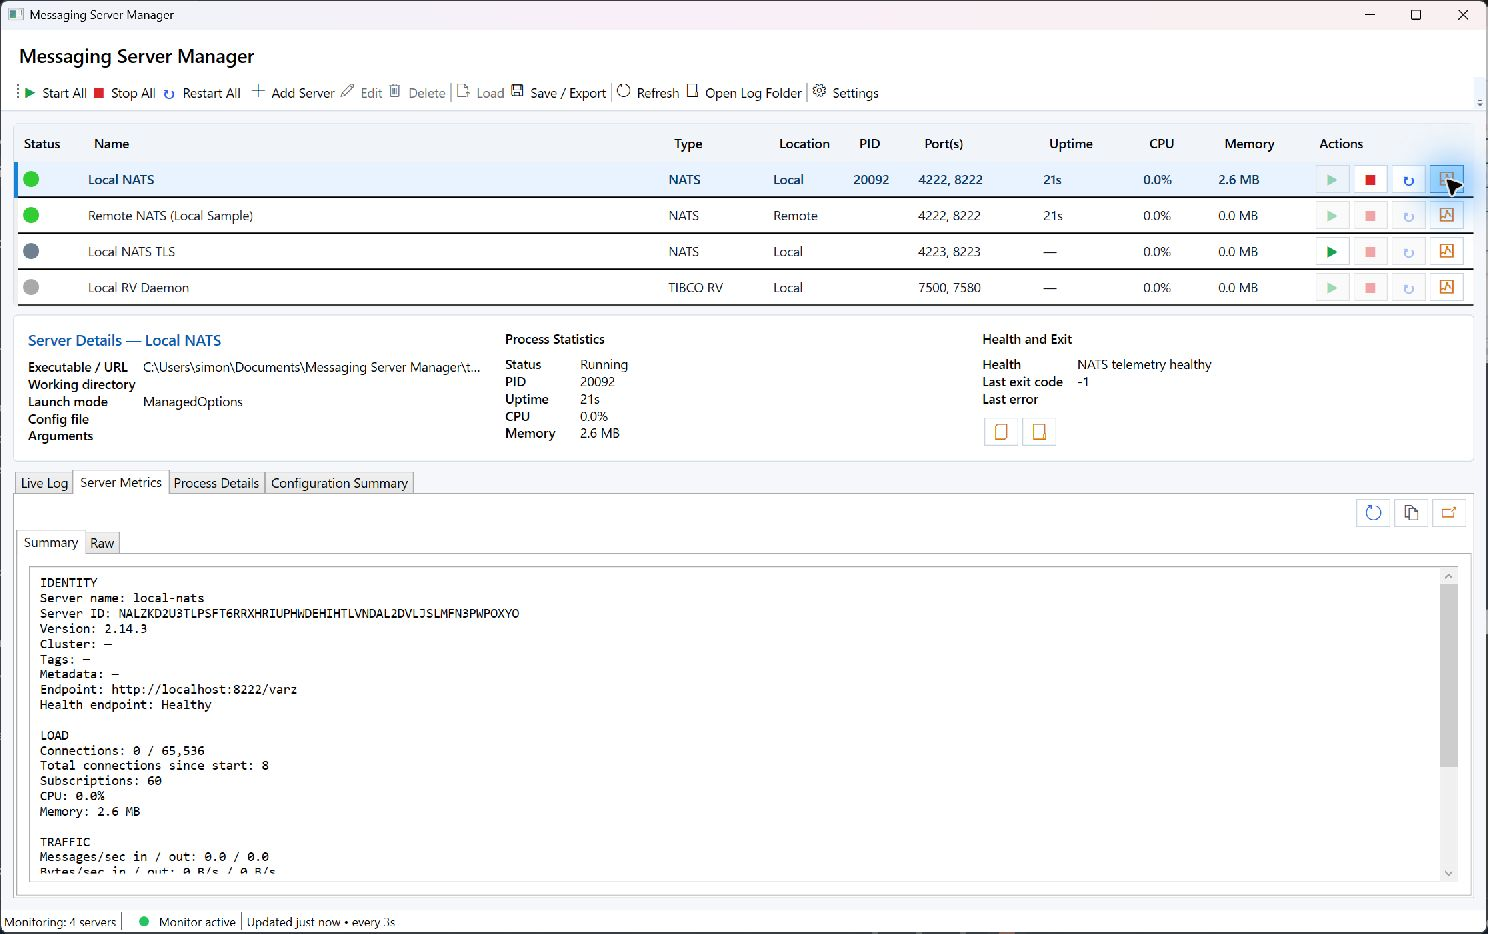
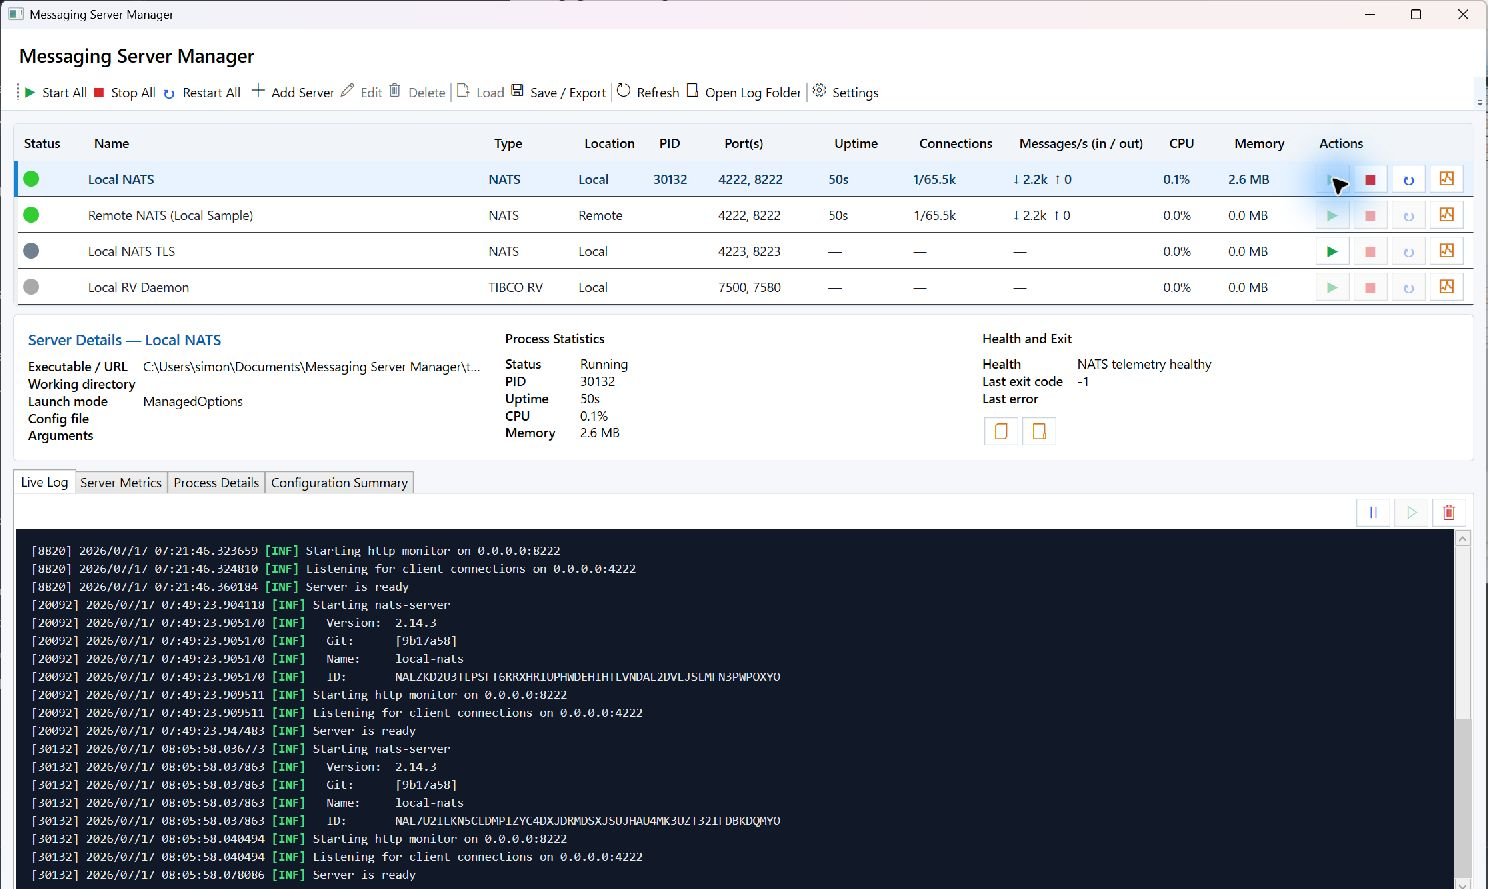
Add list telemetry activity columns

diff --git a/src/MessagingServerManager.App/MainWindow.xaml b/src/MessagingServerManager.App/MainWindow.xaml
@@ -22,7 +22,7 @@
     <DataGrid ItemsSource="{Binding Servers}" SelectedItem="{Binding Selected}" AutoGenerateColumns="False" IsReadOnly="True" CanUserSortColumns="True" HeadersVisibility="Column" GridLinesVisibility="Horizontal" BorderThickness="0" RowHeight="36" VerticalScrollBarVisibility="Auto" HorizontalScrollBarVisibility="Auto">
      <DataGrid.Columns>
       <DataGridTemplateColumn Header="Status" Width="70" SortMemberPath="Status"><DataGridTemplateColumn.CellTemplate><DataTemplate><StackPanel Orientation="Horizontal" VerticalAlignment="Center" ToolTip="{Binding StatusTooltip}"><Ellipse Width="16" Height="16" Fill="{Binding StatusBrush}" Margin="5,0" VerticalAlignment="Center"/></StackPanel></DataTemplate></DataGridTemplateColumn.CellTemplate></DataGridTemplateColumn>
-      <DataGridTextColumn Header="Name" Binding="{Binding Name}" Width="1.5*" ElementStyle="{StaticResource CenteredCellText}"/><DataGridTextColumn Header="Type" Binding="{Binding TypeText}" Width="105" ElementStyle="{StaticResource CenteredCellText}"/><DataGridTextColumn Header="Location" Binding="{Binding LocationText}" Width="80" ElementStyle="{StaticResource CenteredCellText}"/><DataGridTextColumn Header="PID" Binding="{Binding Pid}" Width="65" ElementStyle="{StaticResource CenteredCellText}"/><DataGridTemplateColumn Header="Port(s)" SortMemberPath="PrimaryPort" Width="125"><DataGridTemplateColumn.CellTemplate><DataTemplate><TextBlock Text="{Binding Ports}" ToolTip="{Binding PortsTooltip}" Style="{StaticResource CenteredCellText}"/></DataTemplate></DataGridTemplateColumn.CellTemplate></DataGridTemplateColumn><DataGridTextColumn Header="Uptime" Binding="{Binding UptimeText}" SortMemberPath="Uptime" Width="100" ElementStyle="{StaticResource CenteredCellText}"/><DataGridTextColumn Header="CPU" Binding="{Binding CpuText}" SortMemberPath="Cpu" Width="75" ElementStyle="{StaticResource CenteredCellText}"/><DataGridTextColumn Header="Memory" Binding="{Binding MemoryText}" SortMemberPath="Memory" Width="95" ElementStyle="{StaticResource CenteredCellText}"/>
+      <DataGridTextColumn Header="Name" Binding="{Binding Name}" Width="1*" MinWidth="180" ElementStyle="{StaticResource CenteredCellText}"/><DataGridTextColumn Header="Type" Binding="{Binding TypeText}" Width="90" ElementStyle="{StaticResource CenteredCellText}"/><DataGridTextColumn Header="Location" Binding="{Binding LocationText}" Width="75" ElementStyle="{StaticResource CenteredCellText}"/><DataGridTextColumn Header="PID" Binding="{Binding Pid}" Width="65" ElementStyle="{StaticResource CenteredCellText}"/><DataGridTemplateColumn Header="Port(s)" SortMemberPath="PrimaryPort" Width="110"><DataGridTemplateColumn.CellTemplate><DataTemplate><TextBlock Text="{Binding Ports}" ToolTip="{Binding PortsTooltip}" Style="{StaticResource CenteredCellText}"/></DataTemplate></DataGridTemplateColumn.CellTemplate></DataGridTemplateColumn><DataGridTextColumn Header="Uptime" Binding="{Binding UptimeText}" SortMemberPath="Uptime" Width="85" ElementStyle="{StaticResource CenteredCellText}"/><DataGridTemplateColumn Header="Connections" SortMemberPath="ConnectionCount" Width="100"><DataGridTemplateColumn.CellTemplate><DataTemplate><TextBlock Text="{Binding ConnectionsText}" ToolTip="{Binding ActivityTooltip}" Style="{StaticResource CenteredCellText}"/></DataTemplate></DataGridTemplateColumn.CellTemplate></DataGridTemplateColumn><DataGridTemplateColumn Header="Messages/s (in / out)" SortMemberPath="MessageRateTotal" Width="150"><DataGridTemplateColumn.CellTemplate><DataTemplate><TextBlock Text="{Binding MessageRateText}" ToolTip="{Binding ActivityTooltip}" Style="{StaticResource CenteredCellText}"/></DataTemplate></DataGridTemplateColumn.CellTemplate></DataGridTemplateColumn><DataGridTextColumn Header="CPU" Binding="{Binding CpuText}" SortMemberPath="Cpu" Width="65" ElementStyle="{StaticResource CenteredCellText}"/><DataGridTextColumn Header="Memory" Binding="{Binding MemoryText}" SortMemberPath="Memory" Width="85" ElementStyle="{StaticResource CenteredCellText}"/>
       <DataGridTemplateColumn Header="Actions" Width="160" CanUserSort="False"><DataGridTemplateColumn.CellTemplate><DataTemplate><StackPanel Orientation="Horizontal" VerticalAlignment="Center"><Button Style="{StaticResource CompactActionButton}" ToolTip="Start server" AutomationProperties.Name="Start server" Command="{Binding DataContext.StartServerCommand,RelativeSource={RelativeSource AncestorType=Window}}" CommandParameter="{Binding}"><TextBlock Text="▶" Foreground="#16A34A" FontWeight="Bold" FontSize="14" VerticalAlignment="Center"/></Button><Button Style="{StaticResource CompactActionButton}" ToolTip="Stop server" AutomationProperties.Name="Stop server" Command="{Binding DataContext.StopServerCommand,RelativeSource={RelativeSource AncestorType=Window}}" CommandParameter="{Binding}"><TextBlock Text="■" Foreground="#DC2626" FontWeight="Bold" FontSize="14" VerticalAlignment="Center"/></Button><Button Style="{StaticResource CompactActionButton}" ToolTip="Restart server" AutomationProperties.Name="Restart server" Command="{Binding DataContext.RestartServerCommand,RelativeSource={RelativeSource AncestorType=Window}}" CommandParameter="{Binding}"><TextBlock Text="↻" Foreground="#2563EB" FontWeight="Bold" FontSize="16" VerticalAlignment="Center"/></Button><Button Style="{StaticResource CompactActionButton}" ToolTip="{Binding RowActionTooltip}" AutomationProperties.Name="{Binding RowActionTooltip}" Command="{Binding DataContext.InspectServerCommand,RelativeSource={RelativeSource AncestorType=Window}}" CommandParameter="{Binding}"><TextBlock FontFamily="Segoe MDL2 Assets" Text="{Binding RowActionGlyph}" Foreground="#D97706" FontWeight="Bold" FontSize="15" VerticalAlignment="Center"/></Button></StackPanel></DataTemplate></DataGridTemplateColumn.CellTemplate></DataGridTemplateColumn>
      </DataGrid.Columns>
     </DataGrid>

diff --git a/src/MessagingServerManager.App/MainViewModel.cs b/src/MessagingServerManager.App/MainViewModel.cs
@@ -2,10 +2,10 @@ using System.Collections.ObjectModel;using System.Diagnostics;using System.IO;us
 namespace MessagingServerManager.App;
 public sealed class ServerRowViewModel:ObservableObject
 {
- public ServerDefinition Definition{get;} ServerStatus status;int? pid;TimeSpan uptime;double cpu;long memory;string health="Not checked";string? error;int? exit;DateTime? started;DateTime? lastChecked;DateTime? lastExitTime;int restartCount;string serverId="";string serverName="";string serverVersion="";int connections;int subscriptions;long inMessages;long outMessages;long inBytes;long outBytes;int slowConsumers;int maximumConnections;int totalConnections;int routes;int remotes;int leafNodes;string clusterName="";string serverTags="";string serverMetadata="";string rawTelemetry="";bool healthEndpointHealthy;DateTimeOffset? previousSample;long previousInMessages;long previousOutMessages;long previousInBytes;long previousOutBytes;double inMessageRate;double outMessageRate;double inByteRate;double outByteRate;
+ public ServerDefinition Definition{get;} ServerStatus status;int? pid;TimeSpan uptime;double cpu;long memory;string health="Not checked";string? error;int? exit;DateTime? started;DateTime? lastChecked;DateTime? lastExitTime;int restartCount;string serverId="";string serverName="";string serverVersion="";int connections;int subscriptions;long inMessages;long outMessages;long inBytes;long outBytes;int slowConsumers;int maximumConnections;int totalConnections;int routes;int remotes;int leafNodes;string clusterName="";string serverTags="";string serverMetadata="";string rawTelemetry="";bool healthEndpointHealthy;bool hasRateSample;DateTimeOffset? previousSample;long previousInMessages;long previousOutMessages;long previousInBytes;long previousOutBytes;double inMessageRate;double outMessageRate;double inByteRate;double outByteRate;
  public ServerRowViewModel(ServerDefinition d){Definition=d;status=d.Enabled?ServerStatus.Stopped:ServerStatus.Disabled;}public string Name=>Definition.Name;public string TypeText=>Definition.ServerType==ServerType.Nats?"NATS":"TIBCO RV";public string LocationText=>Definition.Location.ToString();public string Endpoint=>Definition.ServerType==ServerType.Nats?$"{(Definition.Nats.UseTls?"https":"http")}://{Definition.HealthCheckHost}:{Definition.Nats.MonitoringPort}/varz":Definition.TibRv.HttpAdministrationPort is int rvPort?$"http://{Definition.HealthCheckHost}:{rvPort}/metrics":"Local process";public string ExecutableDisplay=>Definition.Location==ServerLocation.Remote?Endpoint:Definition.Executable;public int PrimaryPort=>ServerValidator.GetPorts(Definition).FirstOrDefault(x=>x.HasValue)??0;public string Ports=>string.Join(", ",ServerValidator.GetPorts(Definition).Where(x=>x.HasValue));public string PortsTooltip=>Definition.ServerType==ServerType.Nats?$"Client: {Definition.Nats.ClientPort}; Monitoring: {(Definition.Nats.UseTls?"HTTPS":"HTTP")} {Definition.Nats.MonitoringPort}":$"Service: {Definition.TibRv.Service}; HTTP administration: {Definition.TibRv.HttpAdministrationPort}";public string LogFile=>Definition.Location==ServerLocation.Remote?"Remote telemetry":Definition.LogFilePath??"—";public bool AutoStart=>Definition.StartWithApplication;public bool HasTelemetry=>Definition.ServerType==ServerType.Nats&&Definition.Nats.MonitoringPort is not null||Definition.ServerType==ServerType.TibcoRendezvous&&Definition.TibRv.HttpAdministrationPort is not null;public string RowActionTooltip=>HasTelemetry?"Inspect server telemetry":"Open server log";public string RowActionGlyph=>HasTelemetry?"\uE9D9":"▤";
  public ServerStatus Status{get=>status;set{if(Set(ref status,value)){Raise(nameof(StatusText));Raise(nameof(StatusBrush));Raise(nameof(StatusTooltip));Raise(nameof(CanStart));Raise(nameof(CanStop));}}}public string StatusText=>Status.ToString();public string StatusTooltip=>$"{StatusText} — {Health}";public Brush StatusBrush=>Status switch{ServerStatus.Running=>Brushes.LimeGreen,ServerStatus.Starting or ServerStatus.Stopping or ServerStatus.Restarting=>Brushes.Goldenrod,ServerStatus.Failed or ServerStatus.Invalid=>Brushes.OrangeRed,ServerStatus.Stopped=>Brushes.SlateGray,_=>Brushes.DarkGray};
- public int? Pid{get=>pid;set{if(Set(ref pid,value)){Raise(nameof(CanStart));Raise(nameof(CanStop));}}}public TimeSpan Uptime{get=>uptime;set{if(Set(ref uptime,value))Raise(nameof(UptimeText));}}public string UptimeText=>Definition.Location==ServerLocation.Remote||Pid is not null?FormatDuration(Uptime):"—";public double Cpu{get=>cpu;set{if(Set(ref cpu,value))Raise(nameof(CpuText));}}public string CpuText=>$"{Cpu:F1}%";public long Memory{get=>memory;set{if(Set(ref memory,value))Raise(nameof(MemoryText));}}public string MemoryText=>$"{Memory/1048576d:F1} MB";public string Health{get=>health;set{if(Set(ref health,value))Raise(nameof(StatusTooltip));}}public string? LastError{get=>error;set=>Set(ref error,value);}public int? LastExitCode{get=>exit;set=>Set(ref exit,value);}public DateTime? Started{get=>started;set=>Set(ref started,value);}public DateTime? LastChecked{get=>lastChecked;set=>Set(ref lastChecked,value);}public DateTime? LastExitTime{get=>lastExitTime;set=>Set(ref lastExitTime,value);}public int RestartCount{get=>restartCount;set=>Set(ref restartCount,value);}public bool CanStart=>Definition.Location==ServerLocation.Local&&Definition.Enabled&&Pid is null&&Status is ServerStatus.Stopped or ServerStatus.Failed;public bool CanStop=>Definition.Location==ServerLocation.Local&&Pid is not null&&Status is ServerStatus.Running or ServerStatus.Starting or ServerStatus.Failed;public bool CanOpenLog=>Definition.Location==ServerLocation.Local&&!string.IsNullOrWhiteSpace(Definition.LogFilePath);public bool HasRawTelemetry=>!string.IsNullOrWhiteSpace(rawTelemetry);public string RawTelemetry=>rawTelemetry;public string RemoteMetricsSummary=>Definition.ServerType==ServerType.TibcoRendezvous?TibRvMetricsSummary:$"IDENTITY\nServer name: {Value(serverName)}\nServer ID: {Value(serverId)}\nVersion: {Value(serverVersion)}\nCluster: {Value(clusterName)}\nTags: {Value(serverTags)}\nMetadata: {Value(serverMetadata)}\nEndpoint: {Endpoint}\nHealth endpoint: {(healthEndpointHealthy?"Healthy":"Unavailable")}\n\nLOAD\nConnections: {connections:N0} / {(maximumConnections>0?maximumConnections.ToString("N0"):"unlimited")}\nTotal connections since start: {totalConnections:N0}\nSubscriptions: {subscriptions:N0}\nCPU: {CpuText}\nMemory: {MemoryText}\n\nTRAFFIC\nMessages/sec in / out: {inMessageRate:N1} / {outMessageRate:N1}\nBytes/sec in / out: {FormatRate(inByteRate)} / {FormatRate(outByteRate)}\nLifetime messages in / out: {inMessages:N0} / {outMessages:N0}\nLifetime bytes in / out: {FormatBytes(inBytes)} / {FormatBytes(outBytes)}\n\nTOPOLOGY\nRoutes: {routes:N0}\nRemotes: {remotes:N0}\nLeaf nodes: {leafNodes:N0}\n\nWARNINGS\nSlow consumers: {slowConsumers:N0}";string TibRvMetricsSummary=>$"IDENTITY\nComponent: {Value(serverName)}\nVersion: {Value(serverVersion)}\nHost: {Value(serverId)}\nService: {Value(clusterName)}\nNetwork: {Value(serverTags)}\nEndpoint: {Endpoint}\n\nLOAD\nClient connections: {connections:N0}\nSubscriptions: {subscriptions:N0}\nUptime: {UptimeText}\n\nTRAFFIC\nMessages/sec in / out: {inMessageRate:N1} / {outMessageRate:N1}\nBytes/sec in / out: {FormatRate(inByteRate)} / {FormatRate(outByteRate)}\nLifetime messages in / out: {inMessages:N0} / {outMessages:N0}\nLifetime bytes in / out: {FormatBytes(inBytes)} / {FormatBytes(outBytes)}\n\nDELIVERY WARNINGS\nInbound / outbound data loss: {routes:N0} / {remotes:N0}\nPackets retransmitted: {leafNodes:N0}\nPackets missed: {slowConsumers:N0}";public void ApplyTelemetry(RemoteServerTelemetry value){ApplyRates(value.SampleTime,value.InMessages,value.OutMessages,value.InBytes,value.OutBytes);serverId=value.ServerId;serverName=value.ServerName;serverVersion=value.Version;connections=value.Connections;subscriptions=value.Subscriptions;inMessages=value.InMessages;outMessages=value.OutMessages;inBytes=value.InBytes;outBytes=value.OutBytes;slowConsumers=value.SlowConsumers;maximumConnections=value.MaximumConnections;totalConnections=value.TotalConnections;routes=value.Routes;remotes=value.Remotes;leafNodes=value.LeafNodes;clusterName=value.ClusterName;serverTags=value.ServerTags;serverMetadata=value.ServerMetadata;healthEndpointHealthy=value.HealthEndpointHealthy;rawTelemetry=value.RawJson;FinishTelemetry(value.Uptime);}public void ApplyTelemetry(TibRvTelemetry value){ApplyRates(value.SampleTime,value.InMessages,value.OutMessages,value.InBytes,value.OutBytes);serverName=value.Component;serverVersion=value.Version;serverId=value.Host;clusterName=value.Service;serverTags=value.Network;connections=value.ClientConnections;subscriptions=value.Subscriptions;inMessages=value.InMessages;outMessages=value.OutMessages;inBytes=value.InBytes;outBytes=value.OutBytes;routes=(int)Math.Min(int.MaxValue,value.InDataLoss);remotes=(int)Math.Min(int.MaxValue,value.OutDataLoss);leafNodes=(int)Math.Min(int.MaxValue,value.RetransmittedPackets);slowConsumers=(int)Math.Min(int.MaxValue,value.MissedPackets);rawTelemetry=value.RawMetrics;FinishTelemetry(value.Uptime);}void ApplyRates(DateTimeOffset sample,long newInMessages,long newOutMessages,long newInBytes,long newOutBytes){if(previousSample.HasValue){var seconds=(sample-previousSample.Value).TotalSeconds;if(seconds>0){inMessageRate=Math.Max(0,(newInMessages-previousInMessages)/seconds);outMessageRate=Math.Max(0,(newOutMessages-previousOutMessages)/seconds);inByteRate=Math.Max(0,(newInBytes-previousInBytes)/seconds);outByteRate=Math.Max(0,(newOutBytes-previousOutBytes)/seconds);}}previousSample=sample;previousInMessages=newInMessages;previousOutMessages=newOutMessages;previousInBytes=newInBytes;previousOutBytes=newOutBytes;}void FinishTelemetry(TimeSpan value){Uptime=value;Started=DateTime.Now-value;Raise(nameof(RemoteMetricsSummary));Raise(nameof(RawTelemetry));Raise(nameof(HasRawTelemetry));}static string FormatDuration(TimeSpan value)=>value.TotalDays>=1?$"{(int)value.TotalDays}d {value.Hours}h":value.TotalHours>=1?$"{(int)value.TotalHours}h {value.Minutes}m":value.TotalMinutes>=1?$"{(int)value.TotalMinutes}m {value.Seconds}s":$"{Math.Max(0,(int)value.TotalSeconds)}s";static string FormatBytes(long value)=>value>=1073741824?$"{value/1073741824d:F1} GB":value>=1048576?$"{value/1048576d:F1} MB":value>=1024?$"{value/1024d:F1} KB":$"{value} B";static string FormatRate(double value)=>FormatBytes((long)value)+"/s";static string Value(string value)=>string.IsNullOrWhiteSpace(value)?"—":value;public void RefreshDefinition(){Raise(nameof(Name));Raise(nameof(TypeText));Raise(nameof(LocationText));Raise(nameof(Endpoint));Raise(nameof(ExecutableDisplay));Raise(nameof(PrimaryPort));Raise(nameof(Ports));Raise(nameof(PortsTooltip));Raise(nameof(LogFile));Raise(nameof(AutoStart));Raise(nameof(CanOpenLog));Raise(nameof(HasTelemetry));Raise(nameof(RowActionTooltip));Raise(nameof(RowActionGlyph));Raise(nameof(RemoteMetricsSummary));}
+ public int? Pid{get=>pid;set{if(Set(ref pid,value)){Raise(nameof(CanStart));Raise(nameof(CanStop));}}}public TimeSpan Uptime{get=>uptime;set{if(Set(ref uptime,value))Raise(nameof(UptimeText));}}public string UptimeText=>Definition.Location==ServerLocation.Remote||Pid is not null?FormatDuration(Uptime):"—";public double Cpu{get=>cpu;set{if(Set(ref cpu,value))Raise(nameof(CpuText));}}public string CpuText=>$"{Cpu:F1}%";public long Memory{get=>memory;set{if(Set(ref memory,value))Raise(nameof(MemoryText));}}public string MemoryText=>$"{Memory/1048576d:F1} MB";public string Health{get=>health;set{if(Set(ref health,value))Raise(nameof(StatusTooltip));}}public string? LastError{get=>error;set=>Set(ref error,value);}public int? LastExitCode{get=>exit;set=>Set(ref exit,value);}public DateTime? Started{get=>started;set=>Set(ref started,value);}public DateTime? LastChecked{get=>lastChecked;set=>Set(ref lastChecked,value);}public DateTime? LastExitTime{get=>lastExitTime;set=>Set(ref lastExitTime,value);}public int RestartCount{get=>restartCount;set=>Set(ref restartCount,value);}public bool CanStart=>Definition.Location==ServerLocation.Local&&Definition.Enabled&&Pid is null&&Status is ServerStatus.Stopped or ServerStatus.Failed;public bool CanStop=>Definition.Location==ServerLocation.Local&&Pid is not null&&Status is ServerStatus.Running or ServerStatus.Starting or ServerStatus.Failed;public bool CanOpenLog=>Definition.Location==ServerLocation.Local&&!string.IsNullOrWhiteSpace(Definition.LogFilePath);public bool HasRawTelemetry=>!string.IsNullOrWhiteSpace(rawTelemetry);public string RawTelemetry=>rawTelemetry;public int ConnectionCount=>connections;public double MessageRateTotal=>inMessageRate+outMessageRate;public string ConnectionsText=>!HasRawTelemetry?"—":maximumConnections>0?$"{Compact(connections)}/{Compact(maximumConnections)}":Compact(connections);public string MessageRateText=>hasRateSample?$"↓ {CompactRate(inMessageRate)}  ↑ {CompactRate(outMessageRate)}":"—";public string ActivityTooltip=>!HasRawTelemetry?"Waiting for telemetry":$"Connections: {connections:N0}{(maximumConnections>0?$" / {maximumConnections:N0}":"")}\nMessages/sec inbound: {inMessageRate:N1}\nMessages/sec outbound: {outMessageRate:N1}\nBytes/sec inbound: {FormatRate(inByteRate)}\nBytes/sec outbound: {FormatRate(outByteRate)}\nSubscriptions: {subscriptions:N0}\n{(Definition.ServerType==ServerType.Nats?$"Slow consumers: {slowConsumers:N0}":$"Packets missed: {slowConsumers:N0}; data loss in/out: {routes:N0}/{remotes:N0}")}";public string RemoteMetricsSummary=>Definition.ServerType==ServerType.TibcoRendezvous?TibRvMetricsSummary:$"IDENTITY\nServer name: {Value(serverName)}\nServer ID: {Value(serverId)}\nVersion: {Value(serverVersion)}\nCluster: {Value(clusterName)}\nTags: {Value(serverTags)}\nMetadata: {Value(serverMetadata)}\nEndpoint: {Endpoint}\nHealth endpoint: {(healthEndpointHealthy?"Healthy":"Unavailable")}\n\nLOAD\nConnections: {connections:N0} / {(maximumConnections>0?maximumConnections.ToString("N0"):"unlimited")}\nTotal connections since start: {totalConnections:N0}\nSubscriptions: {subscriptions:N0}\nCPU: {CpuText}\nMemory: {MemoryText}\n\nTRAFFIC\nMessages/sec in / out: {inMessageRate:N1} / {outMessageRate:N1}\nBytes/sec in / out: {FormatRate(inByteRate)} / {FormatRate(outByteRate)}\nLifetime messages in / out: {inMessages:N0} / {outMessages:N0}\nLifetime bytes in / out: {FormatBytes(inBytes)} / {FormatBytes(outBytes)}\n\nTOPOLOGY\nRoutes: {routes:N0}\nRemotes: {remotes:N0}\nLeaf nodes: {leafNodes:N0}\n\nWARNINGS\nSlow consumers: {slowConsumers:N0}";string TibRvMetricsSummary=>$"IDENTITY\nComponent: {Value(serverName)}\nVersion: {Value(serverVersion)}\nHost: {Value(serverId)}\nService: {Value(clusterName)}\nNetwork: {Value(serverTags)}\nEndpoint: {Endpoint}\n\nLOAD\nClient connections: {connections:N0}\nSubscriptions: {subscriptions:N0}\nUptime: {UptimeText}\n\nTRAFFIC\nMessages/sec in / out: {inMessageRate:N1} / {outMessageRate:N1}\nBytes/sec in / out: {FormatRate(inByteRate)} / {FormatRate(outByteRate)}\nLifetime messages in / out: {inMessages:N0} / {outMessages:N0}\nLifetime bytes in / out: {FormatBytes(inBytes)} / {FormatBytes(outBytes)}\n\nDELIVERY WARNINGS\nInbound / outbound data loss: {routes:N0} / {remotes:N0}\nPackets retransmitted: {leafNodes:N0}\nPackets missed: {slowConsumers:N0}";public void ApplyTelemetry(RemoteServerTelemetry value){ApplyRates(value.SampleTime,value.InMessages,value.OutMessages,value.InBytes,value.OutBytes);serverId=value.ServerId;serverName=value.ServerName;serverVersion=value.Version;connections=value.Connections;subscriptions=value.Subscriptions;inMessages=value.InMessages;outMessages=value.OutMessages;inBytes=value.InBytes;outBytes=value.OutBytes;slowConsumers=value.SlowConsumers;maximumConnections=value.MaximumConnections;totalConnections=value.TotalConnections;routes=value.Routes;remotes=value.Remotes;leafNodes=value.LeafNodes;clusterName=value.ClusterName;serverTags=value.ServerTags;serverMetadata=value.ServerMetadata;healthEndpointHealthy=value.HealthEndpointHealthy;rawTelemetry=value.RawJson;FinishTelemetry(value.Uptime);}public void ApplyTelemetry(TibRvTelemetry value){ApplyRates(value.SampleTime,value.InMessages,value.OutMessages,value.InBytes,value.OutBytes);serverName=value.Component;serverVersion=value.Version;serverId=value.Host;clusterName=value.Service;serverTags=value.Network;connections=value.ClientConnections;subscriptions=value.Subscriptions;inMessages=value.InMessages;outMessages=value.OutMessages;inBytes=value.InBytes;outBytes=value.OutBytes;routes=(int)Math.Min(int.MaxValue,value.InDataLoss);remotes=(int)Math.Min(int.MaxValue,value.OutDataLoss);leafNodes=(int)Math.Min(int.MaxValue,value.RetransmittedPackets);slowConsumers=(int)Math.Min(int.MaxValue,value.MissedPackets);rawTelemetry=value.RawMetrics;FinishTelemetry(value.Uptime);}void ApplyRates(DateTimeOffset sample,long newInMessages,long newOutMessages,long newInBytes,long newOutBytes){if(previousSample.HasValue){var seconds=(sample-previousSample.Value).TotalSeconds;if(seconds>0){inMessageRate=Math.Max(0,(newInMessages-previousInMessages)/seconds);outMessageRate=Math.Max(0,(newOutMessages-previousOutMessages)/seconds);inByteRate=Math.Max(0,(newInBytes-previousInBytes)/seconds);outByteRate=Math.Max(0,(newOutBytes-previousOutBytes)/seconds);hasRateSample=true;}}previousSample=sample;previousInMessages=newInMessages;previousOutMessages=newOutMessages;previousInBytes=newInBytes;previousOutBytes=newOutBytes;}void FinishTelemetry(TimeSpan value){Uptime=value;Started=DateTime.Now-value;Raise(nameof(RemoteMetricsSummary));Raise(nameof(RawTelemetry));Raise(nameof(HasRawTelemetry));Raise(nameof(ConnectionCount));Raise(nameof(MessageRateTotal));Raise(nameof(ConnectionsText));Raise(nameof(MessageRateText));Raise(nameof(ActivityTooltip));}static string FormatDuration(TimeSpan value)=>value.TotalDays>=1?$"{(int)value.TotalDays}d {value.Hours}h":value.TotalHours>=1?$"{(int)value.TotalHours}h {value.Minutes}m":value.TotalMinutes>=1?$"{(int)value.TotalMinutes}m {value.Seconds}s":$"{Math.Max(0,(int)value.TotalSeconds)}s";static string FormatBytes(long value)=>value>=1073741824?$"{value/1073741824d:F1} GB":value>=1048576?$"{value/1048576d:F1} MB":value>=1024?$"{value/1024d:F1} KB":$"{value} B";static string FormatRate(double value)=>FormatBytes((long)value)+"/s";static string Compact(long value)=>value>=1000000?$"{value/1000000d:0.#}m":value>=1000?$"{value/1000d:0.#}k":value.ToString("N0");static string CompactRate(double value)=>value>=1000000?$"{value/1000000d:0.#}m":value>=1000?$"{value/1000d:0.#}k":$"{value:0.#}";static string Value(string value)=>string.IsNullOrWhiteSpace(value)?"—":value;public void RefreshDefinition(){Raise(nameof(Name));Raise(nameof(TypeText));Raise(nameof(LocationText));Raise(nameof(Endpoint));Raise(nameof(ExecutableDisplay));Raise(nameof(PrimaryPort));Raise(nameof(Ports));Raise(nameof(PortsTooltip));Raise(nameof(LogFile));Raise(nameof(AutoStart));Raise(nameof(CanOpenLog));Raise(nameof(HasTelemetry));Raise(nameof(RowActionTooltip));Raise(nameof(RowActionGlyph));Raise(nameof(RemoteMetricsSummary));}
 }
 public sealed class MainViewModel:ObservableObject,IDisposable
 {